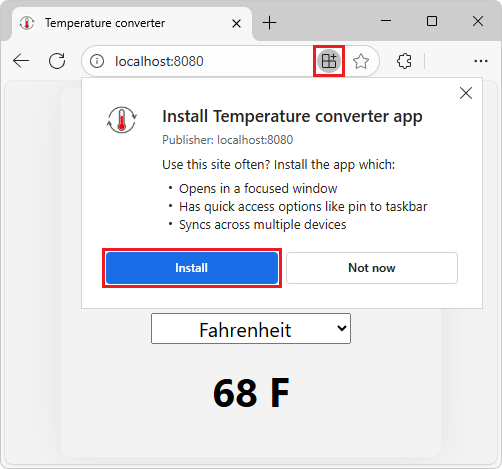
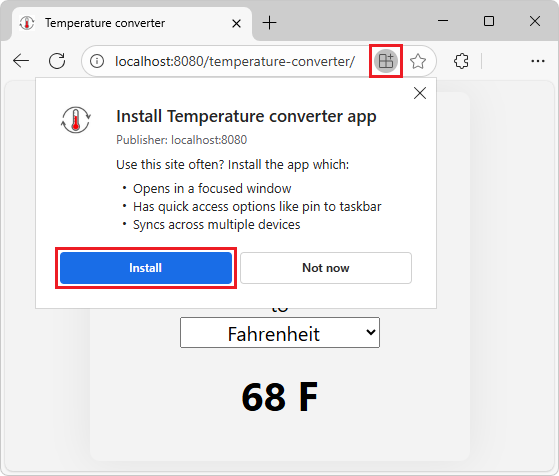
add /t-c/ to addr bar

diff --git a/microsoft-edge/progressive-web-apps/samples/temperature-converter.md b/microsoft-edge/progressive-web-apps/samples/temperature-converter.md
@@ -6,7 +6,7 @@ ms.author: msedgedevrel
 ms.topic: conceptual
 ms.service: microsoft-edge
 ms.subservice: pwa
-ms.date: 10/09/2025
+ms.date: 11/05/2025
 ---
 # Temperature converter sample
 
@@ -283,7 +283,7 @@ Install the sample Progressive Web App (PWA) from your localhost web server as a
 
    An **Install app** dialog opens:
 
-   ![The installation prompt](./temperature-converter-images/sample-pwa-app-available-button.png)<!-- todo: make win wider, add /t-c/ dir in Addr bar -->
+   ![The installation prompt](./temperature-converter-images/sample-pwa-app-available-button.png)
 
 1. Click the **Install** button.
 
@@ -365,8 +365,6 @@ Confirm that the service worker (`sw.js`) is running when you open the PWA as a 
    ![The PWA as an installed local app, with DevTools showing the Service workers panel, with the sw.js worker running](./temperature-converter-images/devtools-service-workers-installed-app.png)
 
    The service worker's **Source** is `sw.js`, with **Status** of **activated and is running**.
-
-   If the service worker isn't displayed, right-click in the Temperature convertor window and then select **Refresh**.<!-- todo: omit paragraph?  did dev hit this issue? -->
 
 1. In the tree on the left, in the **Storage** major section, expand **Cache storage**, and then select **temperature-converter-v1**:
 
@@ -471,8 +469,6 @@ Continue with the steps below.
 <!-- ====================================================================== -->
 ## Step 12: Modify the sample
 
-<!-- todo: open the /tempcon/ dir or /demos/ dir, to open the git repo and display the branch in lower left?  Step 6 opened /td/ dir and no repo, with no branch displayed -->
-
 You can modify the sample as a starting point for your own Progressive Web App (PWA).  You'll change the name of the app from "Temperature converter" to "TC", in a working branch of the repo, and then install the modified app locally.
 
 Create a working branch and switch to it, as follows:
@@ -489,7 +485,7 @@ Create a working branch and switch to it, as follows:
 
 1. In the **Explorer** pane, open `\Demos\temperature-converter\index.html`.
 
-   ![The main branch indicated in lower left of VS Code](./temperature-converter-images/main-branch-in-vs-code.png)<!-- todo: redo showing opening the sample folder not the Demos folder -->
+   ![The main branch indicated in lower left of VS Code](./temperature-converter-images/main-branch-in-vs-code.png)
 
    In the lower left corner of Visual Studio Code, the **main** branch is indicated.
 
@@ -516,6 +512,8 @@ Create a working branch and switch to it, as follows:
    ```
 
    Example output: `Switched to a new branch 'test1'`
+
+   In the lower left of Visual Studio Code, the branch changes from **main** to **test1**.
 
 1. Close the **Terminal** pane.
 
@@ -566,21 +564,6 @@ Create a working branch and switch to it, as follows:
 1. Save the file.
 
 
-1. In the **View** menu, select **Terminal**.
-
-   <!-- todo: avoid add & commit? -->
-
-1. Enter the command: `git add .`
-
-   In the lower left, **test1\*** changes to **test1+**.
-
-1. Enter the command: `git commit`
-
-1. In the **COMMIT_EDITMSG** editor window, in line 1, enter: **rename app**.
-
-1. Save and close the editor window.
-
-
 <!-- ====================================================================== -->
 ## Step 13: View the modified app in the browser
 
@@ -624,7 +607,7 @@ Install the modified app from `localhost` in the browser onto the device, as fol
 
    An **Install TC app** dialog opens within the browser:
 
-   ![The "Install TC app" dialog in the browser](./temperature-converter-images/install-tc-app.png)<!-- todo: make win wider, add /t-c/ dir in Addr bar -->
+   ![The "Install TC app" dialog in the browser](./temperature-converter-images/install-tc-app.png)
 
 1. Click the **Install** button.
 
@@ -684,7 +667,7 @@ You can skip some of the above steps each time you modify the app, depending on 
 
 After the app has been installed and you go to the web app in the browser, the PWA icon in the Address bar is no longer "App available", it's changed to "Open in app".  Because you have installed the sample as a local app, the Address bar contains an **Open in app** (![Open in app icon](./temperature-converter-images/open-in-app-icon.png)) button instead of an **App available** button (regardless of whether the local app is open).  If you click the **Open in app** (![Open in app icon](./temperature-converter-images/open-in-app-icon.png)) button, the **Open Temperature converter** dialog opens:
 
-![The "Open Temperature converter" dialog in the browser](./temperature-converter-images/open-temp-converter-app-dialog.png)<!-- todo: make win wider, add /t-c/ dir in Addr bar -->
+![The "Open Temperature converter" dialog in the browser](./temperature-converter-images/open-temp-converter-app-dialog.png)
 
 
 <!-- ====================================================================== -->
